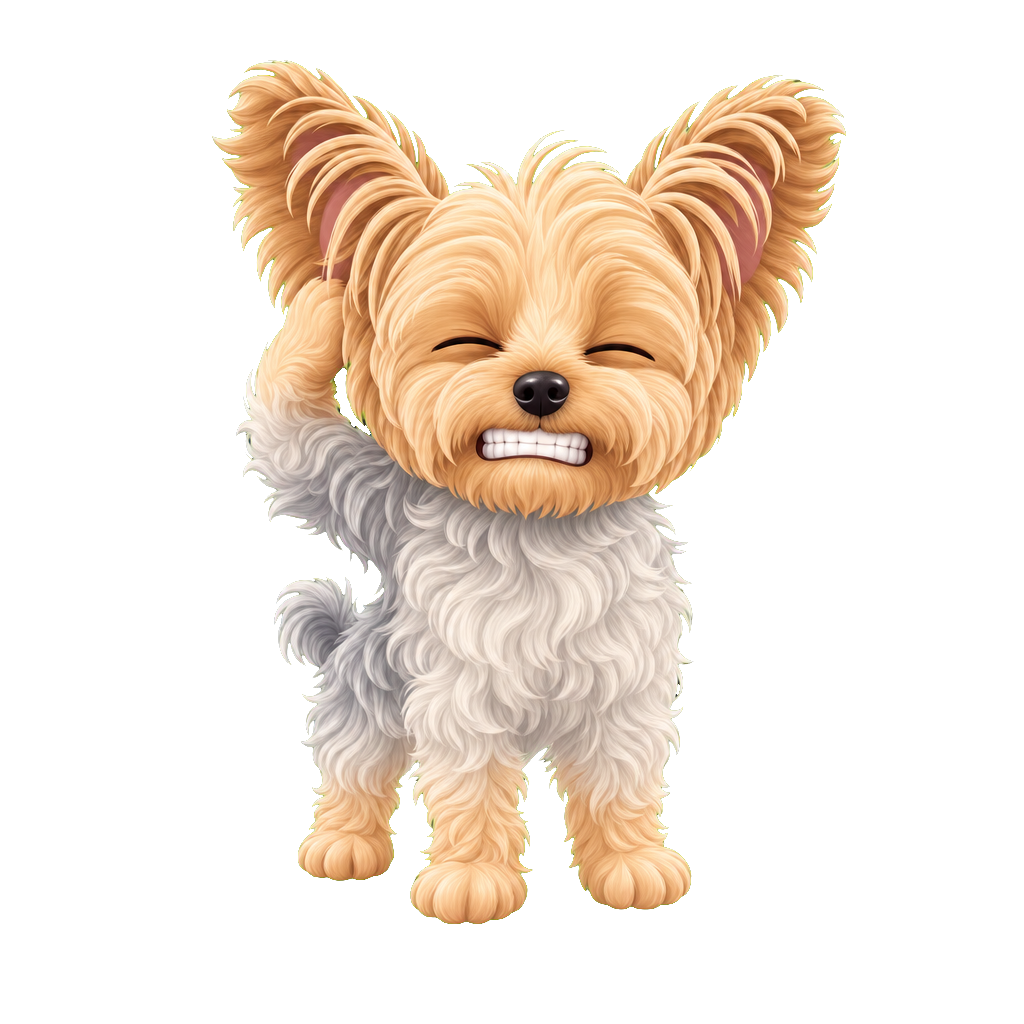
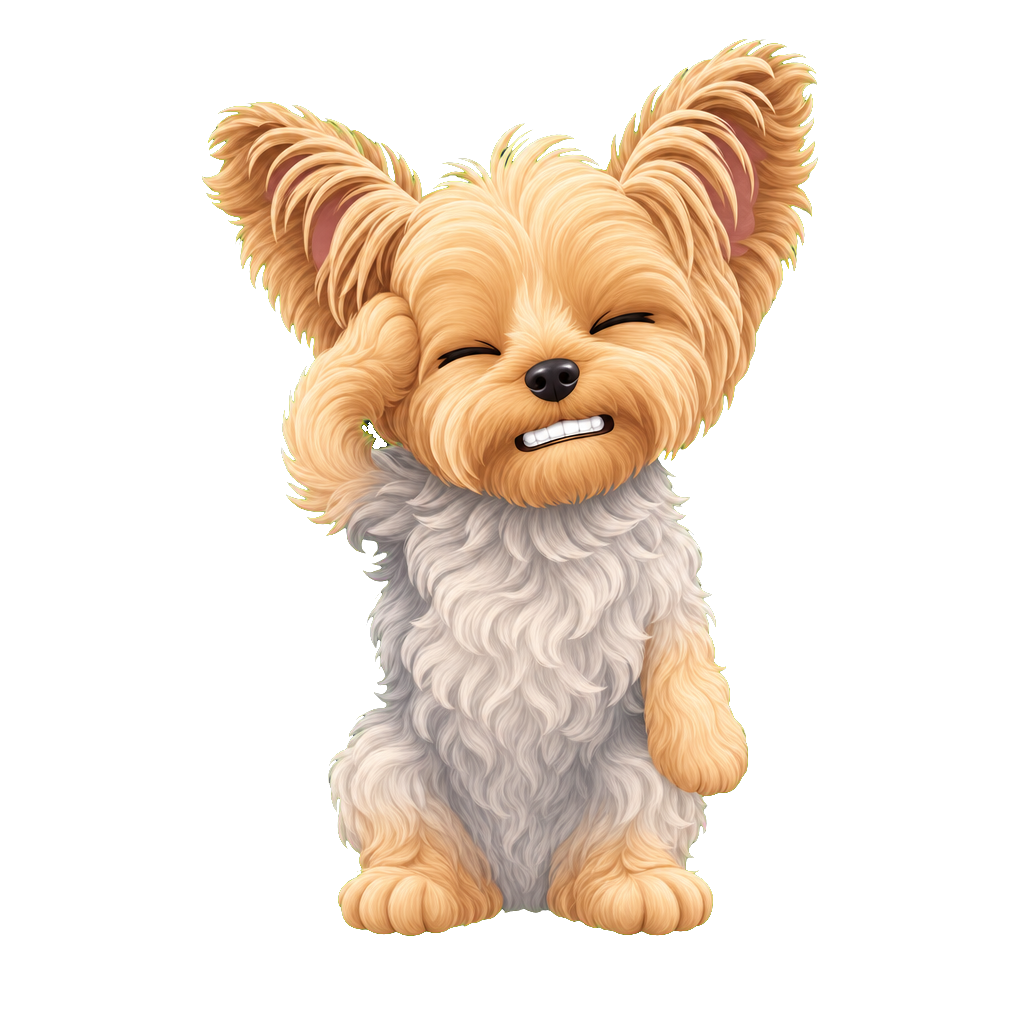
Grammar taught once per unit, drilled every lesson; Teddy's wince redrawn with four legs

Changed region(s): [[0.1875, 0.0312, 0.8438, 0.9375]]

diff --git a/core/questions.js b/core/questions.js
@@ -1417,20 +1417,21 @@ export function makeQuestions(env) {
      card one of seven with no sense of what was coming, which is a worse way to
      meet a set of words than reading them together. `t: "list"` carries the
      lesson's words for the screen to lay out; the cards follow unchanged. */
-  /* The grammar is in every lesson, not only the first (the owner, 2026-10-04:
-     "This grammar tip is randomly in the summary but not anywhere else in the
-     chapter. Grammar should be embedded in the lesson"). The first lesson
-     opens on the unit's card; every later one closes on it, so the rule comes
-     round again where the words are, and each is followed by a short try of
-     it on the lesson's own words (`GRAMMAR_IN_LESSON`) — the tip, then the
-     drill. A side quest without a card of its own repeats its chapter's. */
+  /* The grammar is in every lesson as **practice**, and taught once (the
+     owner, 2026-10-07: "The grammar rules don't need to be repeated. The
+     enforcement or the drills are what need to be repeated"). The unit's own
+     card opens its first lesson; every lesson then closes on a short try of
+     the rule on its own words (`GRAMMAR_IN_LESSON`). A side quest with no card
+     of its own shows none — its chapter's card was met on the spine — and
+     drills its chapter's rule. The card stays a tap away under a wrong answer
+     and in the reference. It used to close every later lesson too. */
   function vocabSteps(unit, index) {
     const words = lessonWords(unit, index);
     const pool = poolFor(unit);
     const steps = [];
     const note = unit.g || formNote(unit);
     const practice = note ? grammarRun(unit, index, GRAMMAR_IN_LESSON) : [];
-    if (index === 0 && note) steps.push({ t: "grammar", note });
+    if (index === 0 && unit.g) steps.push({ t: "grammar", note: unit.g });
     if (words.length) steps.push({ t: "list", words });
     /* **Cumulative, not two at a time** (the owner, 2026-10-05: "right now we
        introduce two words, we answer a question that has two words as obvious
@@ -1480,7 +1481,6 @@ export function makeQuestions(env) {
       const q = present(c[Math.floor(Math.random() * c.length)]);
       if (q) steps.push(words.includes(i) ? q : { ...q, review: true });
     }
-    if (index > 0 && note) steps.push({ t: "grammar", note });
     practice.forEach((q) => steps.push({ ...q, drill: true }));
     return steps;
   }
